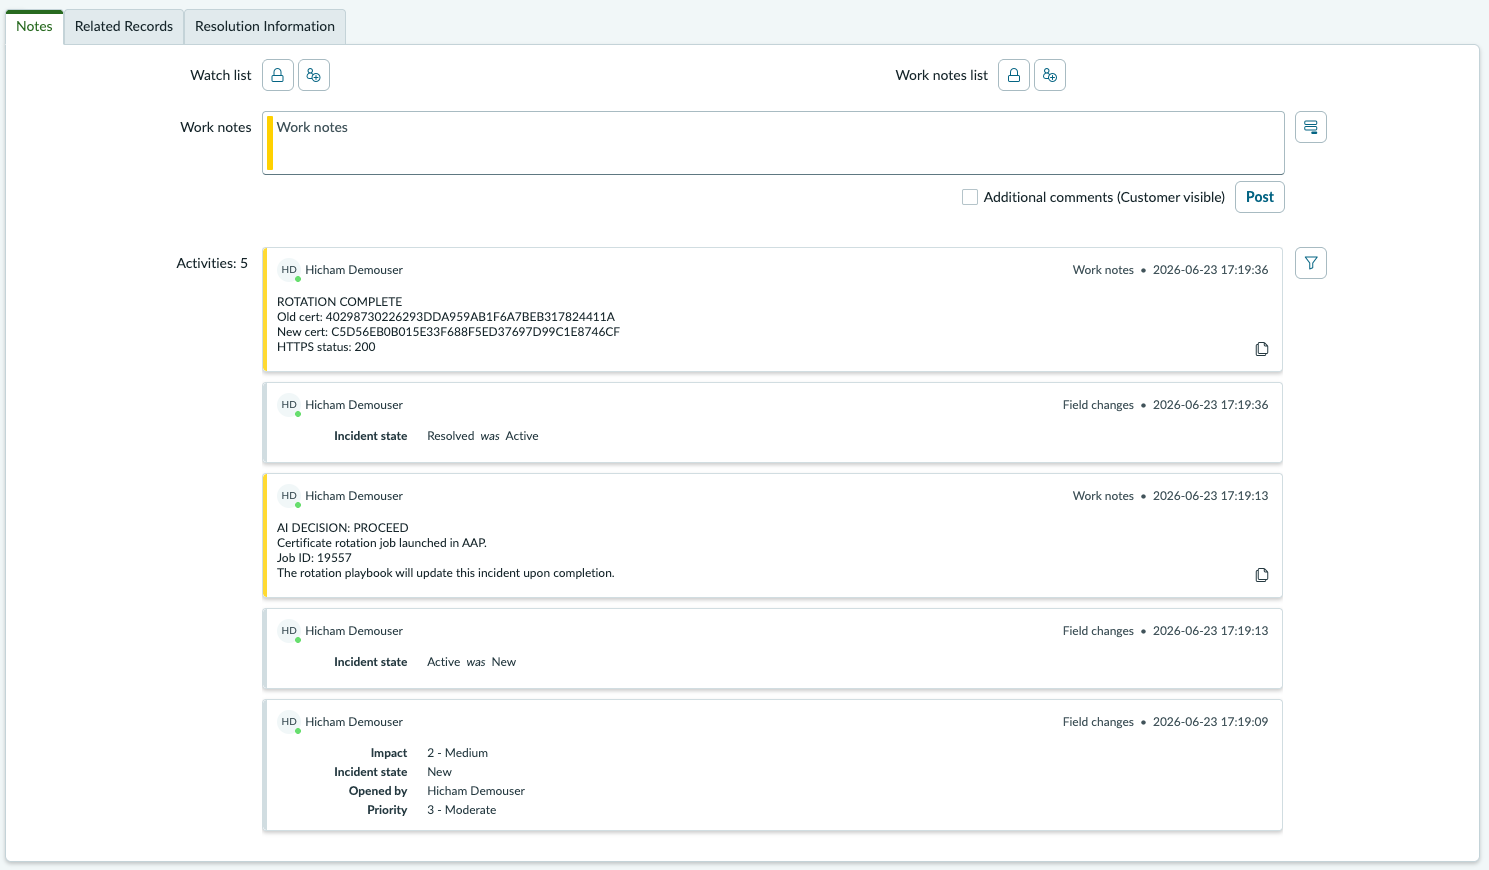
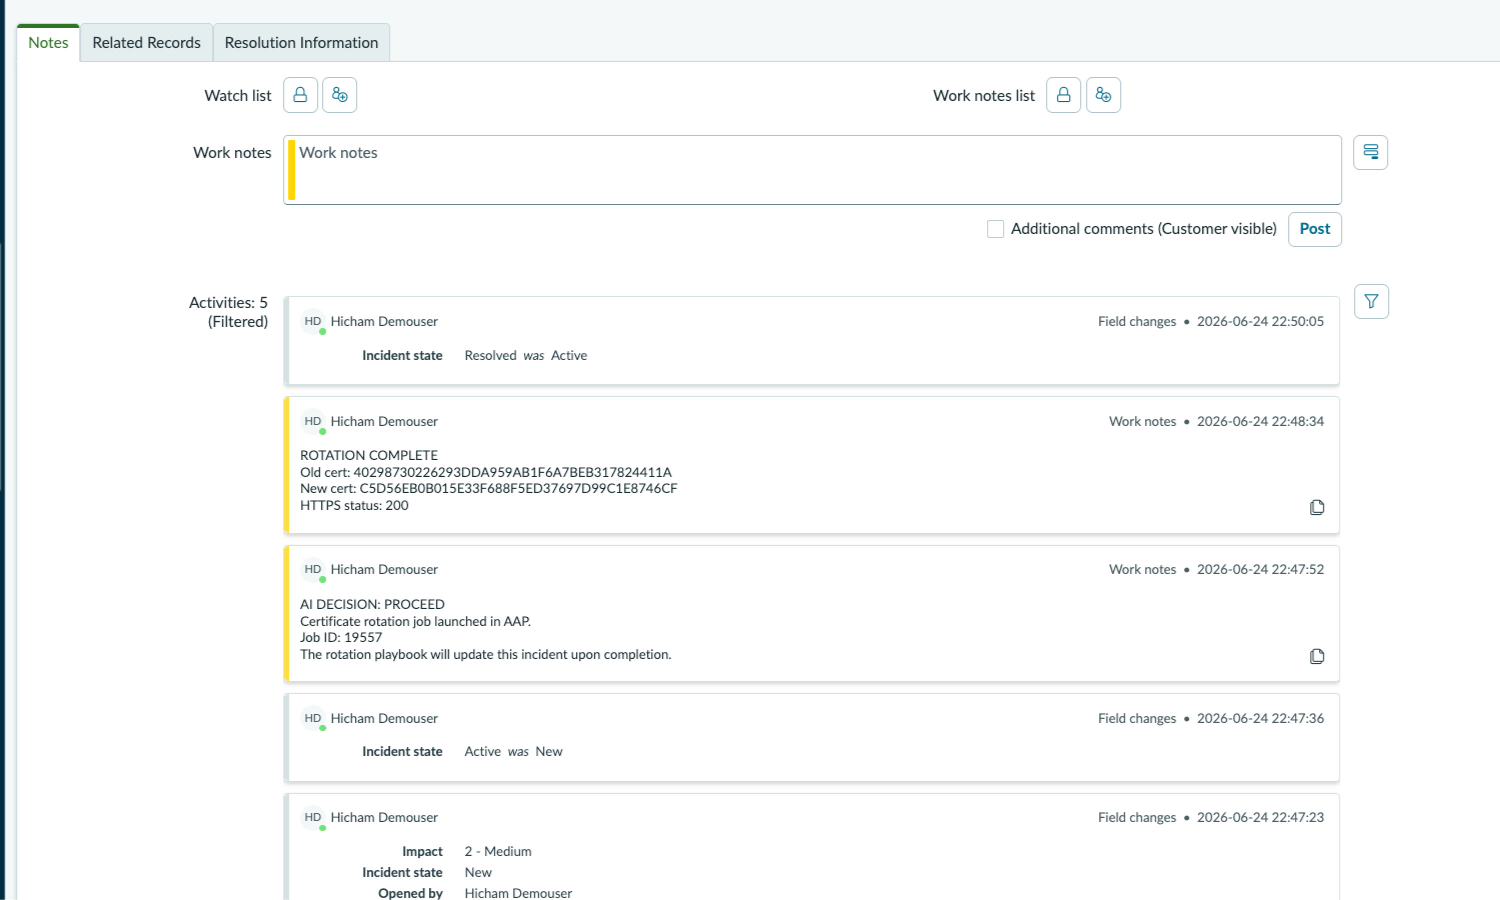
Updated links and images

diff --git a/README-AIOps-Windows-Cert-Rotation.md b/README-AIOps-Windows-Cert-Rotation.md
@@ -41,9 +41,9 @@ This guide automates both the execution and the judgment. Event-Driven Ansible d
 
 Windows Server environments rely on IIS for hosting internal portals, APIs, and web applications. These servers use TLS certificates to encrypt traffic, and those certificates expire. Manually renewing and rebinding them to IIS is tedious, error-prone, and detrimental to your services when it doesn't happen on time.
 
-Automating the rotation itself is straightforward: find the replacement cert, rebind IIS, remove the old cert, verify HTTPS. Ansible handles this reliably. However, blind automation can create its own risks. Rotating a certificate during peak trading hours on a financial portal, or while a dependent service is mid-deployment, or during a compliance audit freeze, can cause more disruption than the expiring cert itself. A load balancer health check that flaps during rebind can mark the node as down and redirect all traffic, turning a routine rotation into a P1 incident. Letting the cert sit too long without acting means the certificate expires and causes the very outage you were trying to prevent.
+Automating the rotation itself is straightforward: find the replacement cert, rebind IIS, remove the old cert, verify HTTPS. Ansible handles this reliably. However, blind automation can create its own risks. Rotating a certificate during peak trading hours on a financial portal, or while a dependent service is mid-deployment, or during a compliance audit freeze, can cause more disruption than the expiring cert itself. Letting the cert sit too long without acting means the certificate expires and causes the very outage you were trying to prevent.
 
-The challenge is the decision: should we rotate now, schedule it for the maintenance window, or flag it for human review? That decision depends on variables that change constantly: current time of day, service dependencies, change history, compliance requirements, concurrent incidents. This is where AI adds value. It evaluates the full risk picture for every expiry event and determines the optimal action, not a one-size-fits-all rule.
+The challenge is in the decision: should we rotate now, schedule it for the maintenance window, or flag it for human review? That decision depends on variables that change constantly, such as current time of day, service dependencies, change history, compliance requirements, concurrent incidents. This is where AI adds value. It evaluates the full risk picture for every expiry event and determines the optimal action, not a one-size-fits-all rule.
 
 ---
 
@@ -60,14 +60,14 @@ The challenge is the decision: should we rotate now, schedule it for the mainten
 
 | Persona | Challenge | What They Gain |
 |---------|-----------|---------------|
-| <img src="https://cdn.jsdelivr.net/gh/twitter/twemoji@14.0.2/assets/72x72/1f6e0.png" width="20" style="vertical-align:text-bottom;"> **Windows Admin** | Certificate rotation is manual, repetitive, and easy to get wrong: find the right replacement cert, rebind IIS, remove the old cert, verify HTTPS, update the ticket. Doing it at the wrong time is worse: load balancer health checks flap, downstream APIs reject connections, and a routine rotation becomes a P1. | Ansible automates rotation mechanics to ensure consistency and reliability, while AI evaluates timing, dependencies, and risk to determine the safest moment to rotate. |
-| <img src="https://cdn.jsdelivr.net/gh/twitter/twemoji@14.0.2/assets/72x72/1f5fa.png" width="20" style="vertical-align:text-bottom;"> **Security / Compliance** | Manual rotations are inconsistent and poorly documented. Compliance audits require evidence that certificate changes were risk-assessed before execution, but manual processes rarely produce a meaningful audit trail. | Every rotation follows the same verified process and is documented in ITSM with AI risk assessment, decision rationale, old/new cert thumbprints, and HTTPS verification. Compliance evidence is generated automatically. |
+| <img src="https://cdn.jsdelivr.net/gh/twitter/twemoji@14.0.2/assets/72x72/1f6e0.png" width="20" style="vertical-align:text-bottom;"> **Windows Admin** | Certificate rotation is manual, repetitive, and easy to get wrong. Find the right replacement cert, rebind IIS, remove the old cert, verify HTTPS, update the ticket. Rotating too late causes an outage. Rotating at the wrong time, during peak load, an active deployment, or a change freeze, risks creating one. | Ansible automates rotation mechanics to ensure consistency and reliability, while AI evaluates timing, dependencies, and risk to determine the safest moment to rotate. |
+| <img src="https://cdn.jsdelivr.net/gh/twitter/twemoji@14.0.2/assets/72x72/1f5fa.png" width="20" style="vertical-align:text-bottom;"> **Security / Compliance** | Manual rotations produce inconsistent documentation, if any. Compliance audits require evidence that certificate changes were risk-assessed before execution, but manual processes rarely produce a meaningful audit trail. | Every rotation follows the same verified process and is documented in ITSM with AI risk assessment, decision rationale, old/new cert thumbprints, and HTTPS verification. Compliance evidence is generated automatically. |
 | <img src="https://cdn.jsdelivr.net/gh/twitter/twemoji@14.0.2/assets/72x72/1f4ca.png" width="20" style="vertical-align:text-bottom;"> **IT Manager** | Certificate outages are preventable but keep happening. Rotations depend on individual knowledge and availability, with no visibility into what was done, when, or why. | Consistent, automated rotation eliminates single points of failure. Measurable MTTR reduction, proactive rotation with intelligent scheduling, human-in-the-loop escalation for edge cases. Dashboard-ready metrics from ITSM. |
 
 ### Demos
 
 - Interactive walkthrough: [Try the interactive Arcade demo](https://app.arcade.software/flows/1v4CnAXAopRJhJ4AUBF1/view)
-- Demo video: [Watch the full demo]() <!-- TODO: Add video URL -->
+- Demo video: [Video link coming soon]() <!-- TODO: Add video URL -->
 
 <!-- TODO: Replace with a thumbnail screenshot from the demo video. Clicking links to the full video -->
 [![Watch the demo](assets/images/cert-rotation-demo-thumbnail.png)]() <!-- TODO: Add video URL -->
@@ -82,7 +82,7 @@ Certificate monitoring that can send webhook alerts when certificates are approa
 
 ### Red Hat Ansible Automation Platform
 
-**Ansible Automation Platform 2.5+** with Event-Driven Ansible controller (GA). Required for webhook event sources and `run_job_template` actions in EDA rulebooks.
+**Ansible Automation Platform 2.5+** with Event-Driven Ansible controller (GA).
 
 > **New to Ansible?**
 >
@@ -154,7 +154,7 @@ The workflow starts when your existing certificate monitoring detects a certific
 
 EDA matches the event against a rulebook condition and triggers the "AI Certificate Risk Analysis" job template. This playbook runs on localhost, calls an AI inference endpoint with certificate details and service context (CMDB data, dependencies, compliance requirements, change history), and produces a PROCEED, SCHEDULE, or ESCALATE decision.
 
-For PROCEED, the playbook launches the "Rotate Windows Certificate" job template immediately via the controller API. For SCHEDULE, it creates a one-time schedule on the same job template for the next maintenance window, so the rotation is guaranteed to happen at the optimal time rather than left unresolved. For ESCALATE, it updates the ITSM ticket to high priority and stops. Escalation is the right path when the risk picture is too complex for automated action: a wildcard cert affecting dozens of services, a compliance audit freeze, conflicting dependencies, or a host with a history of failed rotations. If the AI service is unavailable, the playbook's rescue block automatically escalates for human review via a high-priority ITSM ticket, and the rotation job template remains available for the on-call team to launch manually.
+For PROCEED, the playbook launches the "Rotate Windows Certificate" job template immediately via the controller API. For SCHEDULE, it creates a one-time schedule on the same job template for the next maintenance window, so the rotation is guaranteed to happen at the optimal time rather than left unresolved. For ESCALATE, it updates the ITSM ticket to high priority and stops. Escalation is the right path when the risk picture is too complex for automated action. (A wildcard cert affecting dozens of services, a compliance audit freeze, conflicting dependencies, or a host with a history of failed rotations.) If the AI service is unavailable, the playbook's rescue block automatically escalates for human review via a high-priority ITSM ticket, and the rotation job template remains available for the on-call team to launch manually.
 
 The rotation playbook connects to the Windows host via WinRM, finds a valid replacement certificate, rebinds IIS, removes the old cert, verifies HTTPS, and resolves the ITSM incident with the full rotation details.
 
@@ -171,14 +171,16 @@ Your existing certificate monitoring sends webhook events to the EDA event strea
 | Field | Description | Example |
 |-------|-------------|---------|
 | `event_type` | Event classification | `cert_expiring` |
-| `host` | Windows host private IP (for AAP inventory) | `172.31.30.162` |
-| `thumbprint` | Certificate thumbprint to rotate | `92495AD495E5...` |
+| `host` | Windows host private IP (for AAP inventory) | `<WINDOWS_HOST_IP>` |
+| `thumbprint` | Certificate thumbprint to rotate | `<CERT_THUMBPRINT>` |
 | `days_left` | Days until expiry | `5` |
-| `subject` | Certificate subject name | `CN=demo.contoso.com` |
+| `subject` | Certificate subject name | `CN=<YOUR_CERT_DNS_NAME>` |
 
 The rulebook listens for these events and triggers the AI risk analysis job template. The `days_left <= 7` condition acts as a final gate, but your monitoring system's alert schedule determines when events arrive. Adjust this threshold to match your environment.
 
-> **Tip:** Consider configuring multiple EDA rules at different thresholds to take different actions as expiry approaches. For example, create an informational ITSM ticket at 30 days, trigger AI risk analysis at 7 days, and force immediate rotation at 1 day. Align these thresholds with the intervals your monitoring system is already alerting on.
+> **Tip:** Consider configuring multiple EDA rules at different thresholds to take different actions as expiry approaches. 
+>
+>For example, create an informational ITSM ticket at 30 days, trigger AI risk analysis at 7 days, and force immediate rotation at 1 day. Align these thresholds with the intervals your monitoring system is already alerting on.
 
 ```yaml
 ---
@@ -227,7 +229,7 @@ The AI doesn't just look at how many days are left. It considers:
 - **Current timing**: Is it during peak business hours? Is the maintenance window coming up?
 - **Dependencies**: Will the F5 load balancer health check flap? Will SSRS embedded reports break?
 - **Change history**: Has this host had failed rotations before?
-- **Compliance**: Are there HIPAA or SOX requirements for encryption continuity?
+- **Compliance**: Are there regulatory requirements for encryption continuity?
 - **Operational context**: Is there a change freeze or concurrent incident?
 
 **Featured task: AI inference call**
@@ -271,7 +273,7 @@ The AI returns a structured JSON response:
 | `rationale` | 2-3 sentence explanation of the decision |
 | `impact_analysis` | Detailed analysis covering dependencies, compliance, timing, and history |
 | `precautions` | List of specific precautions to take during rotation |
-| `scheduled_window` | (SCHEDULE only) Recommended maintenance window |
+| `scheduled_time` | (SCHEDULE only) Recommended maintenance window datetime in `YYYYMMDDTHHMMSSZ` format |
 | `escalation_contacts` | (ESCALATE only) Who should review and why |
 
 After receiving the AI decision, the playbook creates an ITSM incident with the full risk assessment before acting on the decision:
@@ -315,7 +317,7 @@ After receiving the AI decision, the playbook creates an ITSM incident with the 
 | **Project** | `Windows Cert Rotation` |
 | **Playbook** | `playbooks/ai_risk_analysis.yml` |
 | **Credentials** | Machine credential (Windows admin) |
-| **Extra variables** | `cert_dns_name: demo.contoso.com` |
+| **Extra variables** | `cert_dns_name: <YOUR_CERT_DNS_NAME>` |
 | **Prompt on launch** | Extra variables enabled (receives `target_host`, `cert_thumbprint`, `days_left` from EDA) |
 
 > **Tip:** Store AI and ITSM credentials in automation controller.
@@ -362,7 +364,7 @@ When the AI decides PROCEED, the risk analysis playbook launches the "Rotate Win
 
 - name: Verify HTTPS is still working
   ansible.windows.win_uri:
-    url: "https://localhost"
+    url: "https://{{ cert_dns_name }}"
   register: verify_result
 
 - name: Assert HTTPS is healthy
@@ -374,9 +376,6 @@ When the AI decides PROCEED, the risk analysis playbook launches the "Rotate Win
 
 The playbook expects a valid replacement certificate to already exist in the Windows certificate store. How that certificate gets there depends on your environment: ADCS auto-enrollment, a Venafi policy, HashiCorp Vault, or a manual renewal process. The rotation playbook handles the lifecycle from that point forward: find the replacement, rebind IIS, remove the old cert, verify HTTPS, and document everything in ITSM.
 
-> **Warning:** Rotation causes a brief HTTPS interruption.
->
-> The IIS HTTPS binding is unavailable for a few seconds during rebind. If an F5 or other load balancer health check fires during this window, it may temporarily mark the node as down. The change history in the demo shows this happened during a 2025-11 emergency rotation (45s of F5 health check flapping, 12 failed requests). Pre-draining the node from the load balancer before rotation eliminates this risk.
 
 **Job template configuration in automation controller:**
 
@@ -387,12 +386,11 @@ The playbook expects a valid replacement certificate to already exist in the Win
 | **Project** | `Windows Cert Rotation` |
 | **Playbook** | `playbooks/rotate_certificate.yml` |
 | **Credentials** | Machine credential (Windows admin) |
-| **Extra variables** | `cert_dns_name: demo.contoso.com` |
+| **Extra variables** | `cert_dns_name: <YOUR_CERT_DNS_NAME>` |
 | **Prompt on launch** | Extra variables enabled (receives `cert_thumbprint`, `target_host`, `snow_incident_sys_id` from risk analysis) |
 
 ![Rotation job output](assets/images/cert-rotation-job.png)
 
-![Windows certificate store before and after rotation](assets/images/mmc-cert-store.png)
 
 ### Step 3b: Schedule for maintenance window (SCHEDULE path)
 
@@ -403,21 +401,6 @@ When the AI decides SCHEDULE, the risk analysis playbook creates a one-time sche
 The AI may choose SCHEDULE over PROCEED for several reasons: the current time falls within peak business hours and the cert has enough runway to wait, a change freeze is in effect (quarter-end close, compliance audit), a high-risk upstream dependency like an F5 or ARR reverse proxy would be impacted by a rebind during active traffic, or a dependent service is mid-deployment and needs to stabilize first.
 
 ```yaml
-- name: Calculate next maintenance window start time
-  ansible.builtin.shell:
-    cmd: |
-      python3 -c "
-      from datetime import datetime, timedelta
-      now = datetime.utcnow()
-      days_until = ({{ maintenance_window_day }} - now.weekday()) % 7
-      if days_until == 0 and now.hour >= {{ maintenance_window_hour_utc }}:
-          days_until = 7
-      target = now + timedelta(days=days_until)
-      scheduled = target.replace(hour={{ maintenance_window_hour_utc }}, minute=0, second=0)
-      print(scheduled.strftime('%Y%m%dT%H%M%SZ'))
-      "
-  register: scheduled_time_result
-
 - name: Schedule rotation job for maintenance window
   ansible.builtin.uri:
     url: "https://{{ aap_hostname }}/api/controller/v2/job_templates/{{ rotation_jt_id }}/schedules/"
@@ -429,7 +412,7 @@ The AI may choose SCHEDULE over PROCEED for several reasons: the current time fa
     body_format: json
     body:
       name: "Scheduled cert rotation - {{ cert_thumbprint[:12] }}"
-      rrule: "DTSTART:{{ scheduled_rotation_time }} RRULE:FREQ=MINUTELY;INTERVAL=1;COUNT=1"
+      rrule: "DTSTART:{{ ai_decision.scheduled_time }} RRULE:FREQ=MINUTELY;INTERVAL=1;COUNT=1"
       extra_data:
         cert_thumbprint: "{{ cert_thumbprint }}"
         target_host: "{{ target_host }}"
@@ -500,29 +483,19 @@ The ITSM incident now has the full story: the AI risk assessment from Step 2 (as
 Send a test certificate expiry event to the EDA event stream:
 
 ```bash
-source .env.demo
 curl -X POST "${EDA_EVENT_STREAM_URL}" \
   -H "Content-Type: application/json" \
   -H "Authorization: Bearer ${EDA_TOKEN}" \
   -d '{
     "event_type": "cert_expiring",
-    "host": "'"${WINDOWS_PRIVATE_IP}"'",
-    "thumbprint": "'"$(grep old_cert vars/cert_thumbprints.yml | cut -d\" -f2)"'",
-    "days_left": 5,
-    "subject": "CN=demo.contoso.com"
+    "host": "<WINDOWS_HOST_IP>",
+    "thumbprint": "<EXPIRING_CERT_THUMBPRINT>",
+    "days_left": 3,
+    "subject": "CN=<YOUR_CERT_DNS_NAME>"
   }'
 ```
 
-Or use the included test script:
-
-```bash
-source .env.demo
-bash scripts/send_test_event.sh
-```
-
-### Expected Result (PROCEED)
-
-The AI Risk Analysis job output:
+Expected output (AI Risk Analysis job):
 
 ```
 TASK [Display AI decision] *****************************************************
@@ -530,70 +503,62 @@ ok: [localhost] => {
     "msg": [
         "DECISION: PROCEED",
         "RISK LEVEL: HIGH",
-        "RATIONALE: With only 3 days until expiry and the current time being after
-         peak business hours, immediate rotation is necessary as waiting for the
-         Saturday maintenance window would leave insufficient buffer time."
+        "RATIONALE: With only 3 days until expiry and conditions clear for rotation,
+         immediate action is necessary. Waiting for the next maintenance window would
+         leave insufficient buffer time."
     ]
 }
 
 TASK [Display ServiceNow incident] *********************************************
 ok: [localhost] => {
-    "msg": "ServiceNow incident created: INC0021680 (PROCEED)"
+    "msg": "ServiceNow incident created: INC<NUMBER> (PROCEED)"
 }
 
 TASK [Display launched job] ****************************************************
 ok: [localhost] => {
     "msg": [
         "Rotation job launched successfully.",
-        "AAP Job ID: 19511",
-        "Job URL: https://aap-nostromo.demoredhat.com/#/jobs/19511/output"
+        "AAP Job ID: <JOB_ID>",
+        "Job URL: https://<AAP_HOST>/#/jobs/<JOB_ID>/output"
     ]
 }
-
-PLAY RECAP *********************************************************************
-localhost                  : ok=21   changed=2    unreachable=0    failed=0    skipped=8
 ```
 
-The Rotate Windows Certificate job output:
+Expected output (Rotate Windows Certificate job):
 
 ```
 TASK [Confirm replacement certificate found] ***********************************
-ok: [172.31.30.162] => {
-    "msg": "Found replacement certificate: A1FEA1A2A6F90F523925B1B3DBD2B3FD39C4916F"
+ok: [<WINDOWS_HOST_IP>] => {
+    "msg": "Found replacement certificate: <NEW_THUMBPRINT>"
 }
 
 TASK [Assert HTTPS is healthy] *************************************************
-ok: [172.31.30.162] => {
+ok: [<WINDOWS_HOST_IP>] => {
     "msg": "IIS is serving HTTPS with the new certificate!"
 }
 
 TASK [Rotation complete] *******************************************************
-ok: [172.31.30.162] => {
-    "msg": "Certificate rotation complete. Old: 88898BD165E4307215BB51C50149B6A2D12CE40D
-     -> New: A1FEA1A2A6F90F523925B1B3DBD2B3FD39C4916F. HTTPS verified.
-     ServiceNow: INC0021680"
+ok: [<WINDOWS_HOST_IP>] => {
+    "msg": "Certificate rotation complete. Old: <OLD_THUMBPRINT>
+     -> New: <NEW_THUMBPRINT>. HTTPS verified. ServiceNow: INC<NUMBER>"
 }
-
-PLAY RECAP *********************************************************************
-172.31.30.162              : ok=15   changed=4    unreachable=0    failed=0    skipped=0
 ```
 
 ### Test: SCHEDULE Path
 
-To test the SCHEDULE path, pass `additional_context` with a change freeze or peak-hours constraint:
+To test the SCHEDULE path, pass `additional_context` indicating peak business hours with enough runway for the cert to wait:
 
 ```bash
-source .env.demo
 curl -X POST "${EDA_EVENT_STREAM_URL}" \
   -H "Content-Type: application/json" \
   -H "Authorization: Bearer ${EDA_TOKEN}" \
   -d '{
     "event_type": "cert_expiring",
-    "host": "'"${WINDOWS_PRIVATE_IP}"'",
-    "thumbprint": "'"$(grep old_cert vars/cert_thumbprints.yml | cut -d\" -f2)"'",
+    "host": "<WINDOWS_HOST_IP>",
+    "thumbprint": "<EXPIRING_CERT_THUMBPRINT>",
     "days_left": 5,
-    "subject": "CN=demo.contoso.com",
-    "additional_context": "MANDATORY change freeze in effect until end of business Friday. No production changes permitted."
+    "subject": "CN=<YOUR_CERT_DNS_NAME>",
+    "additional_context": "Currently peak business hours with high active user load. Maintenance window available in 2 days."
   }'
 ```
 
@@ -605,44 +570,37 @@ ok: [localhost] => {
     "msg": [
         "DECISION: SCHEDULE",
         "RISK LEVEL: MEDIUM",
-        "RATIONALE: Certificate has 5 days until expiry and the next maintenance window
-         (Saturday 02:00-06:00 US-Eastern) occurs within 4 days, providing safe margin.
-         Currently in peak business hours with 8600 active users and $2.1M daily
-         revenue impact makes immediate rotation too risky."
+        "RATIONALE: Certificate has 5 days until expiry and a maintenance window is
+         available within 2 days, providing a safe margin. Current peak load makes
+         immediate rotation too risky."
     ]
 }
 
 TASK [Display scheduled rotation] **********************************************
 ok: [localhost] => {
     "msg": [
-        "Rotation scheduled in AAP for: 20260627T060000Z",
-        "Schedule name: Scheduled cert rotation - 40298730226293",
+        "Rotation scheduled in AAP for: <MAINTENANCE_WINDOW_DATETIME>",
+        "Schedule name: Scheduled cert rotation - <THUMBPRINT_PREFIX>",
         "The rotation job will execute automatically during the maintenance window."
     ]
 }
-
-PLAY RECAP *********************************************************************
-localhost                  : ok=23   changed=2    unreachable=0    failed=0    skipped=6
 ```
-
-![AI risk analysis SCHEDULE decision](assets/images/ai-risk-analysis-schedule.png)
 
 ### Test: ESCALATE Path
 
-To test the ESCALATE path, pass `additional_context` with a hard constraint that creates a conflict the AI cannot safely resolve on its own:
+To test the ESCALATE path, pass `additional_context` with a hard conflict the AI cannot resolve — the certificate expires before the freeze lifts:
 
 ```bash
-source .env.demo
 curl -X POST "${EDA_EVENT_STREAM_URL}" \
   -H "Content-Type: application/json" \
   -H "Authorization: Bearer ${EDA_TOKEN}" \
   -d '{
     "event_type": "cert_expiring",
-    "host": "'"${WINDOWS_PRIVATE_IP}"'",
-    "thumbprint": "'"$(grep old_cert vars/cert_thumbprints.yml | cut -d\" -f2)"'",
-    "days_left": 5,
-    "subject": "CN=demo.contoso.com",
-    "additional_context": "MANDATORY change freeze in effect until end of business Friday. No production changes permitted."
+    "host": "<WINDOWS_HOST_IP>",
+    "thumbprint": "<EXPIRING_CERT_THUMBPRINT>",
+    "days_left": 3,
+    "subject": "CN=<YOUR_CERT_DNS_NAME>",
+    "additional_context": "Mandatory compliance audit freeze in effect for 14 days. No production changes permitted under any circumstances. Certificate expires before the freeze lifts."
   }'
 ```
 
@@ -654,24 +612,22 @@ ok: [localhost] => {
     "msg": [
         "DECISION: ESCALATE",
         "RISK LEVEL: HIGH",
-        "RATIONALE: Certificate expires in 5 days but mandatory change freeze prohibits
-         production changes until end of business Friday. This creates a conflict between
-         compliance requirements and operational necessity that requires management review."
+        "RATIONALE: Certificate expires in 3 days but the compliance audit freeze
+         prohibits any production changes for 14 days. The certificate will expire
+         before automation can safely act. Human review is required."
     ]
 }
 
 TASK [Display workflow summary] ************************************************
 ok: [localhost] => {
-    "msg": "Risk analysis complete. Decision: ESCALATE. ServiceNow: INC0021691"
+    "msg": "Risk analysis complete. Decision: ESCALATE. ServiceNow: INC<NUMBER>"
 }
-
-PLAY RECAP *********************************************************************
-localhost                  : ok=21   changed=2    unreachable=0    failed=0    skipped=8
 ```
 
-![AI risk analysis ESCALATE decision](assets/images/ai-risk-analysis-escalate.png)
 
-> **Note:** The AI generates unique rationale text on each run. The decision structure and fields remain consistent, but the wording will vary. The same `additional_context` may produce different decisions depending on timing and how the AI weighs the constraints.
+> **Note:** The AI generates unique rationale text on each run. 
+>
+> The decision structure and fields remain consistent, but the wording will vary. The same `additional_context` may produce different decisions depending on timing and how the AI weighs the constraints.
 
 ### Troubleshooting
 
@@ -712,7 +668,7 @@ By connecting certificate monitoring to Event-Driven Ansible with AI-informed de
 - **Intelligent scheduling**: When conditions are not ideal (peak hours, change freezes, high-risk dependencies), the AI schedules rotation for the next maintenance window rather than taking unnecessary risk. The rotation is guaranteed to happen at the optimal time, not left unresolved
 - **Compliance evidence**: Every rotation is documented in ITSM with the AI risk assessment, old and new certificate thumbprints, and HTTPS verification status. This supports change management and encryption controls across common compliance frameworks.
 - **Graceful fallback**: If the AI service is unavailable, the workflow escalates for human review via a high-priority ITSM ticket. The rotation job template remains available for manual launch, preserving human oversight when automated risk assessment is not possible
-- **Automation reuse**: The rotation playbook can be launched manually for planned rotations, testing, or one-off hosts, bypassing the AI gate entirely. One playbook, two entry points.
+- **Manual override**: The rotation playbook can be launched manually for planned rotations, testing, or one-off hosts, bypassing the AI gate entirely. One playbook, two entry points.
 
 ### Measuring Success
 